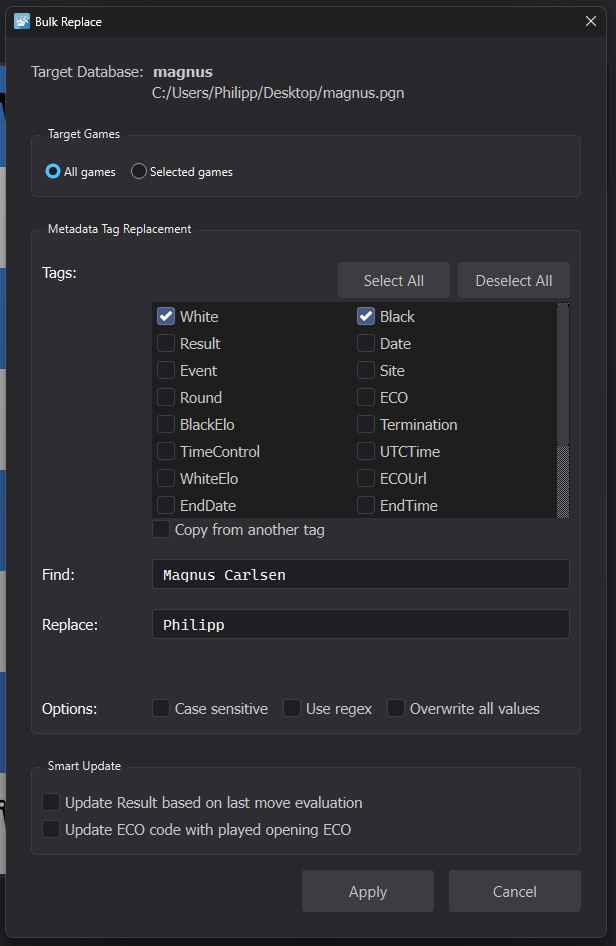
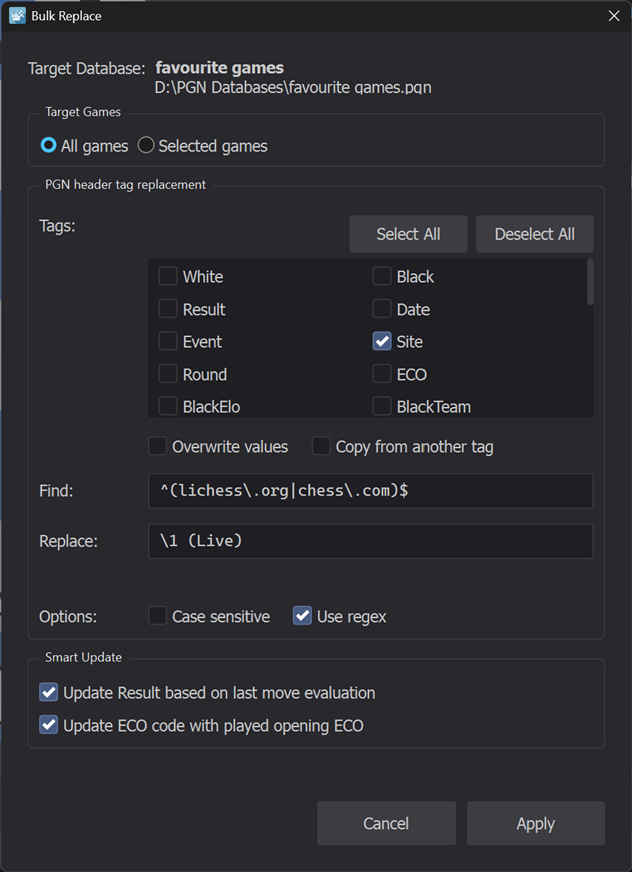
Small improvements to the Bulk replace PGN header tags dialog and updated HTML manual with regex examples.

diff --git a/app/resources/manual/index.html b/app/resources/manual/index.html
@@ -1278,6 +1278,38 @@
                     <li>Use regular expressions for advanced pattern matching</li>
                     <li>Process all games or only selected games in the database table</li>
                 </ul>
+                <p>If you enable <strong>Use regex</strong>, the <strong>Find</strong> field is treated as a regular expression. Here are a few practical examples you can try:</p>
+                <table class="column-table">
+                    <thead>
+                        <tr>
+                            <th style="min-width: 220px;">Goal</th>
+                            <th style="min-width: 220px;">Find (regex)</th>
+                            <th style="min-width: 220px;">Replace</th>
+                            <th style="min-width: 200px;">Notes</th>
+                        </tr>
+                    </thead>
+                    <tbody>
+                        <tr>
+                            <td>Append a suffix to specific sites</td>
+                            <td><code>^(lichess\.org|chess\.com)$</code></td>
+                            <td><code>\1 (Live)</code></td>
+                            <td>Example for the <code>Site</code> tag: matches <em>only</em> values that are exactly <code>lichess.org</code> or <code>chess.com</code> and appends <code>(Live)</code>. Enable <strong>Case sensitive</strong>.</td>
+                        </tr>
+                        <tr>
+                            <td>Normalize whitespace</td>
+                            <td><code>\s+</code></td>
+                            <td>single space</td>
+                            <td>Replaces any whitespace run with a single space (names, events, etc.).</td>
+                        </tr>
+                        <tr>
+                            <td>Remove trailing engine/site annotations</td>
+                            <td><code>\s*[-–—]\s*(lichess|chess\.com|engine).*?$</code></td>
+                            <td>(empty)</td>
+                            <td>Deletes a suffix like “ - lichess” or “ — engine …”. Use with care.</td>
+                        </tr>
+                    </tbody>
+                </table>
+                <br>
                 <p>The dialog also includes two smart update options:</p>
                 <ul>
                     <li><strong>Update Result based on last move evaluation:</strong> Analyzes the final position of each game using a chess engine to determine the game result. This option only updates games with indecisive results (empty, "*", or "?"), preserving games that already have decisive results (1-0, 0-1, 1/2-1/2). It can detect checkmate or stalemate directly, or use engine evaluation to determine the likely result for incomplete games. This is useful if you are for example importing games from a chess computer, which doesn't provide a resign function.</li>

diff --git a/app/views/dialogs/bulk_replace_dialog.py b/app/views/dialogs/bulk_replace_dialog.py
@@ -454,18 +454,25 @@ class BulkReplaceDialog(QDialog):
         # Add tags label and container to form layout
         replace_layout.addRow(self.tag_label, tags_container)
         
-        # Copy from another tag checkbox - ensure it's positioned below the tags container
-        # The tags_container already has bottom margin for spacing
+        # Overwrite + copy mode checkboxes on one row (layout-sensitive)
+        self.overwrite_all_check = QCheckBox("Overwrite values")
+        self.overwrite_all_check.setFont(QFont(self.label_font_family, self.label_font_size))
+        self.overwrite_all_check.toggled.connect(self._on_overwrite_all_toggled)
+
+        # Copy from another tag checkbox
         self.copy_from_tag_check = QCheckBox("Copy from another tag")
         self.copy_from_tag_check.setFont(QFont(self.label_font_family, self.label_font_size))
         self.copy_from_tag_check.toggled.connect(self._on_copy_mode_toggled)
+
         # Add to form layout with empty label to maintain alignment
-        copy_checkbox_widget = QWidget()
-        copy_checkbox_layout = QHBoxLayout(copy_checkbox_widget)
-        copy_checkbox_layout.setContentsMargins(0, 0, 0, 0)
-        copy_checkbox_layout.addWidget(self.copy_from_tag_check)
-        copy_checkbox_layout.addStretch()
-        replace_layout.addRow("", copy_checkbox_widget)
+        mode_checkbox_widget = QWidget()
+        mode_checkbox_layout = QHBoxLayout(mode_checkbox_widget)
+        mode_checkbox_layout.setContentsMargins(0, 0, 0, 0)
+        mode_checkbox_layout.setSpacing(self.options_spacing)
+        mode_checkbox_layout.addWidget(self.overwrite_all_check)
+        mode_checkbox_layout.addWidget(self.copy_from_tag_check)
+        mode_checkbox_layout.addStretch()
+        replace_layout.addRow("", mode_checkbox_widget)
         
         # Source tag selection (shown when copy mode is enabled)
         self.source_tag_combo = QComboBox()
@@ -513,12 +520,8 @@ class BulkReplaceDialog(QDialog):
         self.case_sensitive_check.setFont(QFont(self.label_font_family, self.label_font_size))
         self.regex_check = QCheckBox("Use regex")
         self.regex_check.setFont(QFont(self.label_font_family, self.label_font_size))
-        self.overwrite_all_check = QCheckBox("Overwrite all values")
-        self.overwrite_all_check.setFont(QFont(self.label_font_family, self.label_font_size))
-        self.overwrite_all_check.toggled.connect(self._on_overwrite_all_toggled)
         options_layout.addWidget(self.case_sensitive_check)
         options_layout.addWidget(self.regex_check)
-        options_layout.addWidget(self.overwrite_all_check)
         options_layout.addStretch()
         self.options_label = QLabel("Options:")
         self.options_label.setFont(QFont(self.label_font_family, self.label_font_size))
@@ -909,7 +912,14 @@ class BulkReplaceDialog(QDialog):
     
     def _on_overwrite_all_toggled(self, checked: bool) -> None:
         """Handle overwrite all checkbox toggle."""
-        # Disable Find field when overwrite all is checked
+        # Overwrite-values mode bypasses find/replace options entirely.
+        if checked:
+            try:
+                self.case_sensitive_check.setChecked(False)
+                self.regex_check.setChecked(False)
+            except Exception:
+                pass
+
         self.find_input.setEnabled(not checked)
         self.case_sensitive_check.setEnabled(not checked)
         self.regex_check.setEnabled(not checked)
